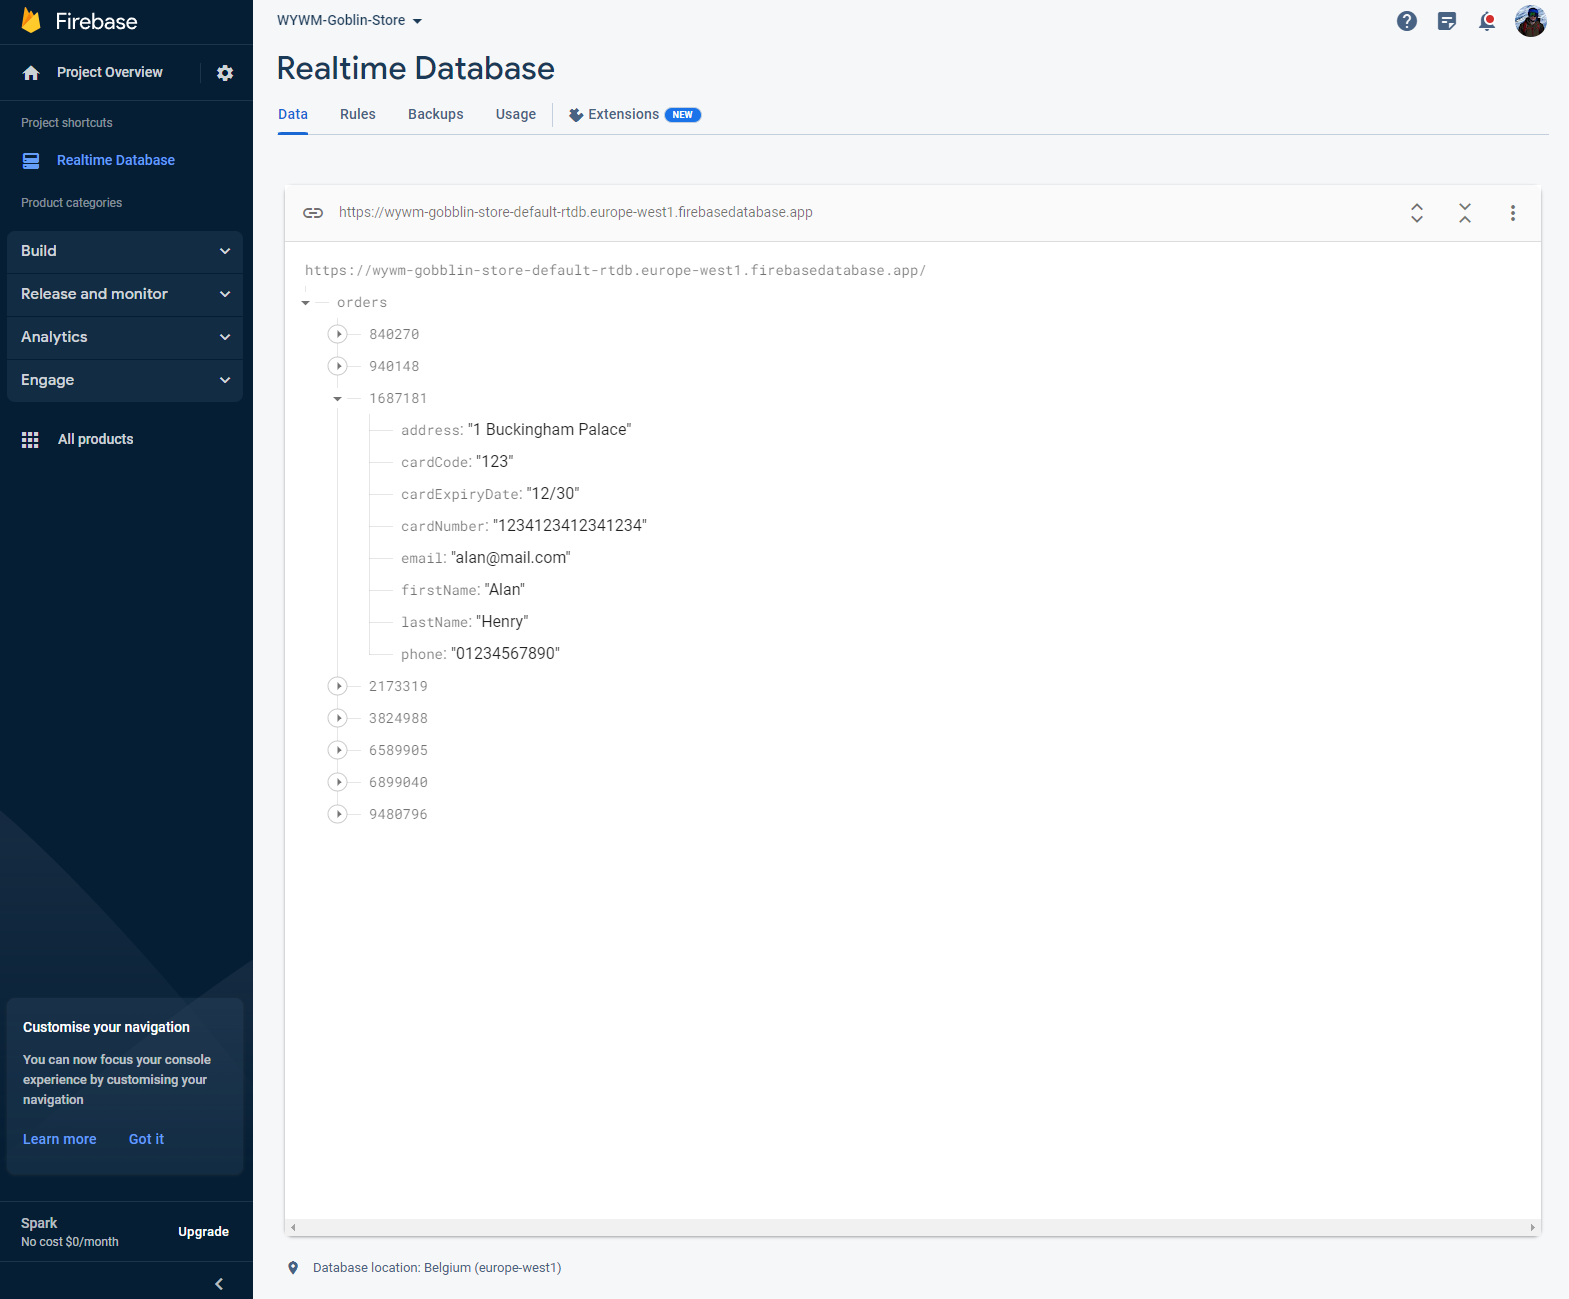
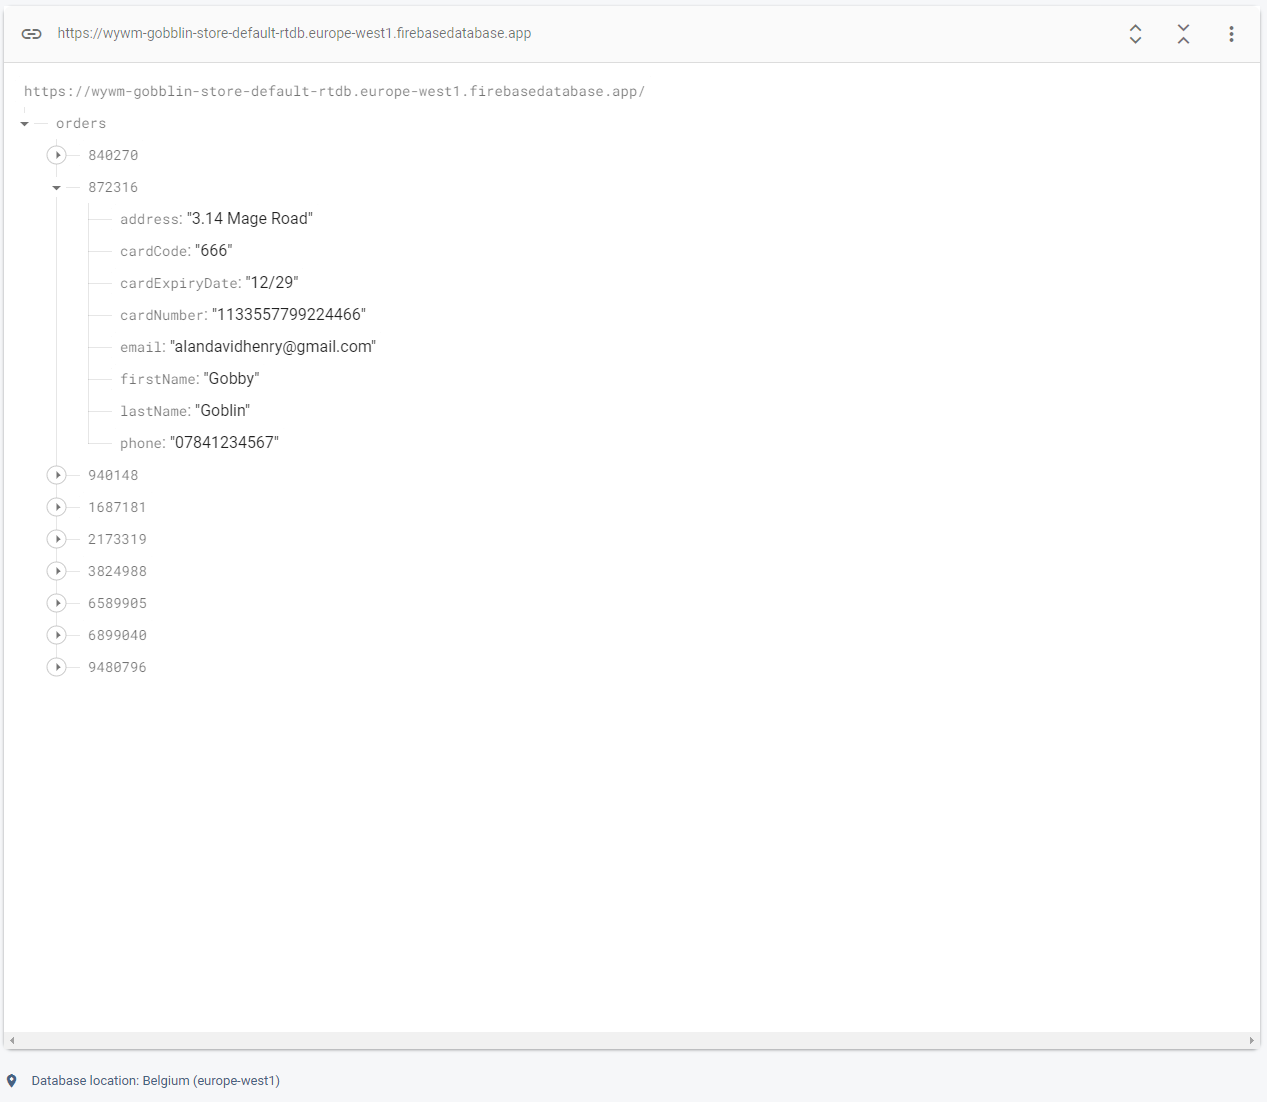
Update products script, add screenshots

Changed region(s): [[0.0, 0.0, 0.5848, 1.0], [0.2155, 0.5245, 0.277, 0.6479], [0.8927, 0.0, 0.985, 0.0309]]

diff --git a/The Gobblin Store - v2.2/resources/scripts/checkout.js b/The Gobblin Store - v2.2/resources/scripts/checkout.js
@@ -113,6 +113,10 @@ document.getElementById('checkoutForm')
     firstName: document.getElementById("inputFirstName").value,
     lastName: document.getElementById("inputLastName").value,
     email: document.getElementById("inputEmail").value,
+    phone: document.getElementById("inputPhoneNumber").value,
+    address: document.getElementById("inputAddress").value,
+    cardNumber: '**** **** **** ' + document.getElementById("inputCardNumber").value.slice(0,4),
+    cardExpiry: document.getElementById("inputCardExpiryDate").value,
     html: products.map((product) => {
             `<div class="orderDetails" id="${product.name}">
               <div class="mb-4" id="productInfo">
@@ -134,6 +138,10 @@ document.getElementById('checkoutForm')
       document.getElementById("inputFirstName").value = "";
       document.getElementById("inputLastName").value = "";
       document.getElementById("inputEmail").value = "";
+      document.getElementById("inputPhoneNumber").value = "";
+      document.getElementById("inputAddress").value = "";
+      document.getElementById("inputCardNumber").value = "";
+      document.getElementById("inputCardExpiryDate").value = "";    
       btn.value = 'Order now';
       alert("Sent!");
     })
@@ -142,5 +150,6 @@ document.getElementById('checkoutForm')
       alert(JSON.stringify(err));
       console.log(err);
     });
+
 });
 

diff --git a/The Gobblin Store - v2.2/resources/pages/checkout.html b/The Gobblin Store - v2.2/resources/pages/checkout.html
@@ -195,12 +195,10 @@
         }).catch((error) => {
           alert(error)
         })
-      }
-      
+      }      
 
       // Initialize Realtime Database and get a reference to the service
       const database = getDatabase(app);
-
 
     </script>
 
